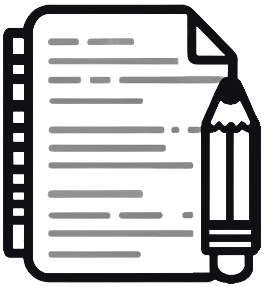
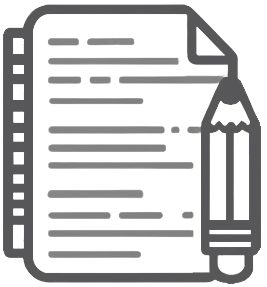
804 adjusting the contrast of the images from our wizard in step 1 (#825)
* fix: adapt mode-icon to cardset-icon style

* fix: separator line

diff --git a/frontend/src/views/PrepareSessionPage.vue b/frontend/src/views/PrepareSessionPage.vue
@@ -559,6 +559,10 @@ export default defineComponent({
   width: 45px;
 }
 
+:deep(.wrapper-steppy .controls .btn:hover) {
+  color: black;
+}
+
 .mode-icons {
   .mode-icon {
     max-width: 225px;
@@ -569,6 +573,8 @@ export default defineComponent({
     display: flex;
     flex-direction: column;
     cursor: pointer;
+    border: thin solid;
+    border-color: var(--estimateButtonBorder);
     border-radius: $border-radius;
     box-shadow: 8px 8px 5px var(--box-shadow);
     background-color: var(--preparePage-mode-backround);
@@ -591,10 +597,19 @@ export default defineComponent({
     }
 
     .mode-icon-text {
-      font-size: 20px;
+      font-size: 18px;
       text-align: center;
       font-weight: bold;
     }
   }
+}
+
+.mode-icon-text::before {
+  content: "";
+  display: block;
+  width: 100%;
+  height: 1px;
+  background: var(--estimateButtonBorder);
+  margin: 8px 0;
 }
 </style>

diff --git a/frontend/src/assets/style/_variables.scss b/frontend/src/assets/style/_variables.scss
@@ -46,7 +46,7 @@
   --preparePage-wizard-background: rgba(255, 255, 255, 0.5);
   --preparePage-wizard-status: #da7315;
   --preparePage-wizard-statusbackground: rgb(255, 255, 255);
-  --preparePage-mode-backround: rgb(229, 229, 229);
+  --preparePage-mode-backround: rgb(238, 238, 238);
   --preparePage-active-icon-border: #946234e0;
   --preparePage-hover-icon-border: #658462;
 
